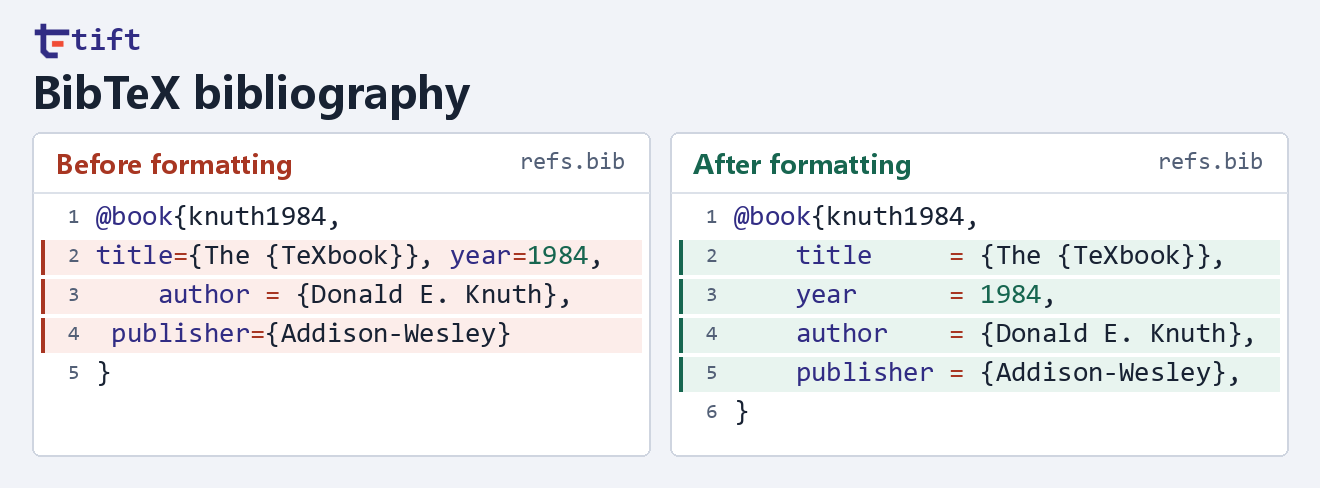
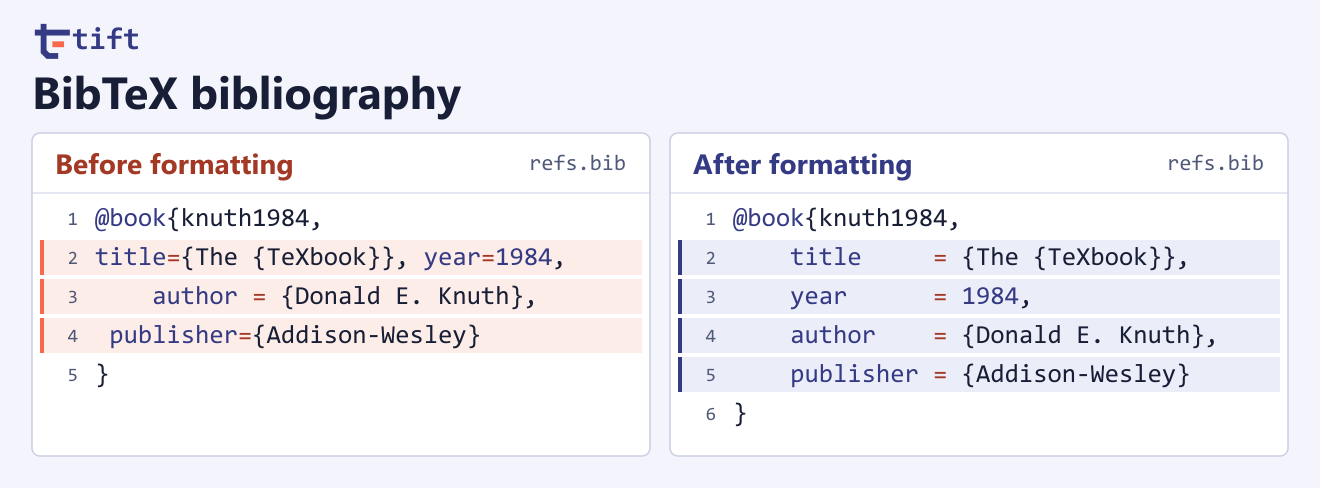
Refresh tift branding colors

diff --git a/docs/branding/tift-logo.tex b/docs/branding/tift-logo.tex
@@ -1,6 +1,6 @@
 \documentclass[tikz,border=0pt]{standalone}
-\definecolor{tiftindigo}{HTML}{312C84}
-\definecolor{tiftcoral}{HTML}{F04C36}
+\definecolor{tiftindigo}{HTML}{343A83}
+\definecolor{tiftcoral}{HTML}{F9684B}
 
 \begin{document}
 \begin{tikzpicture}[x=1bp,y=-1bp]
